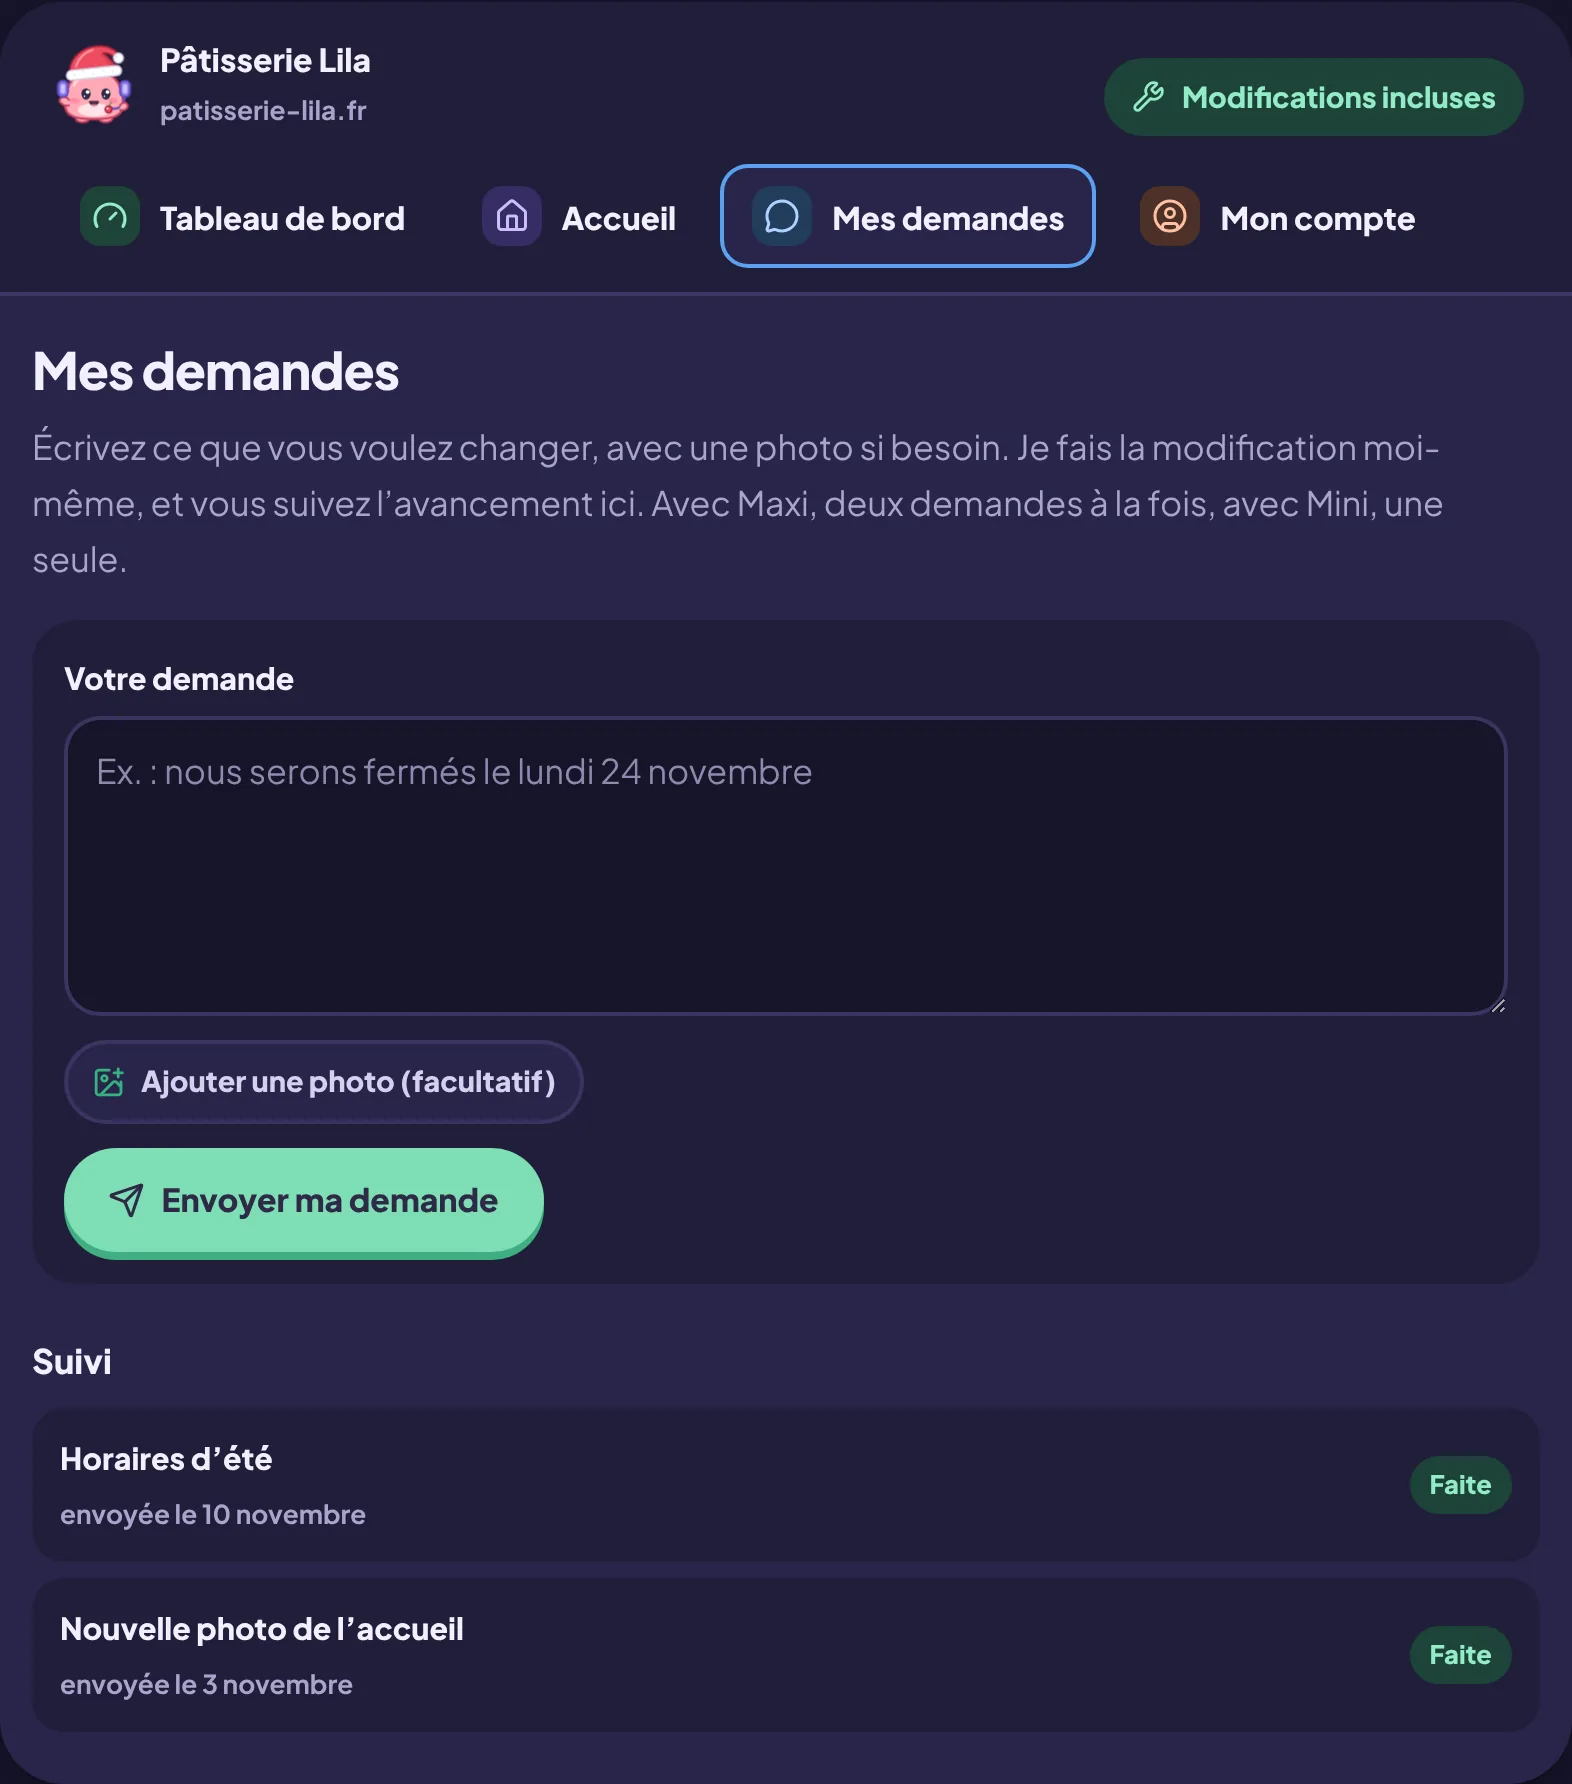
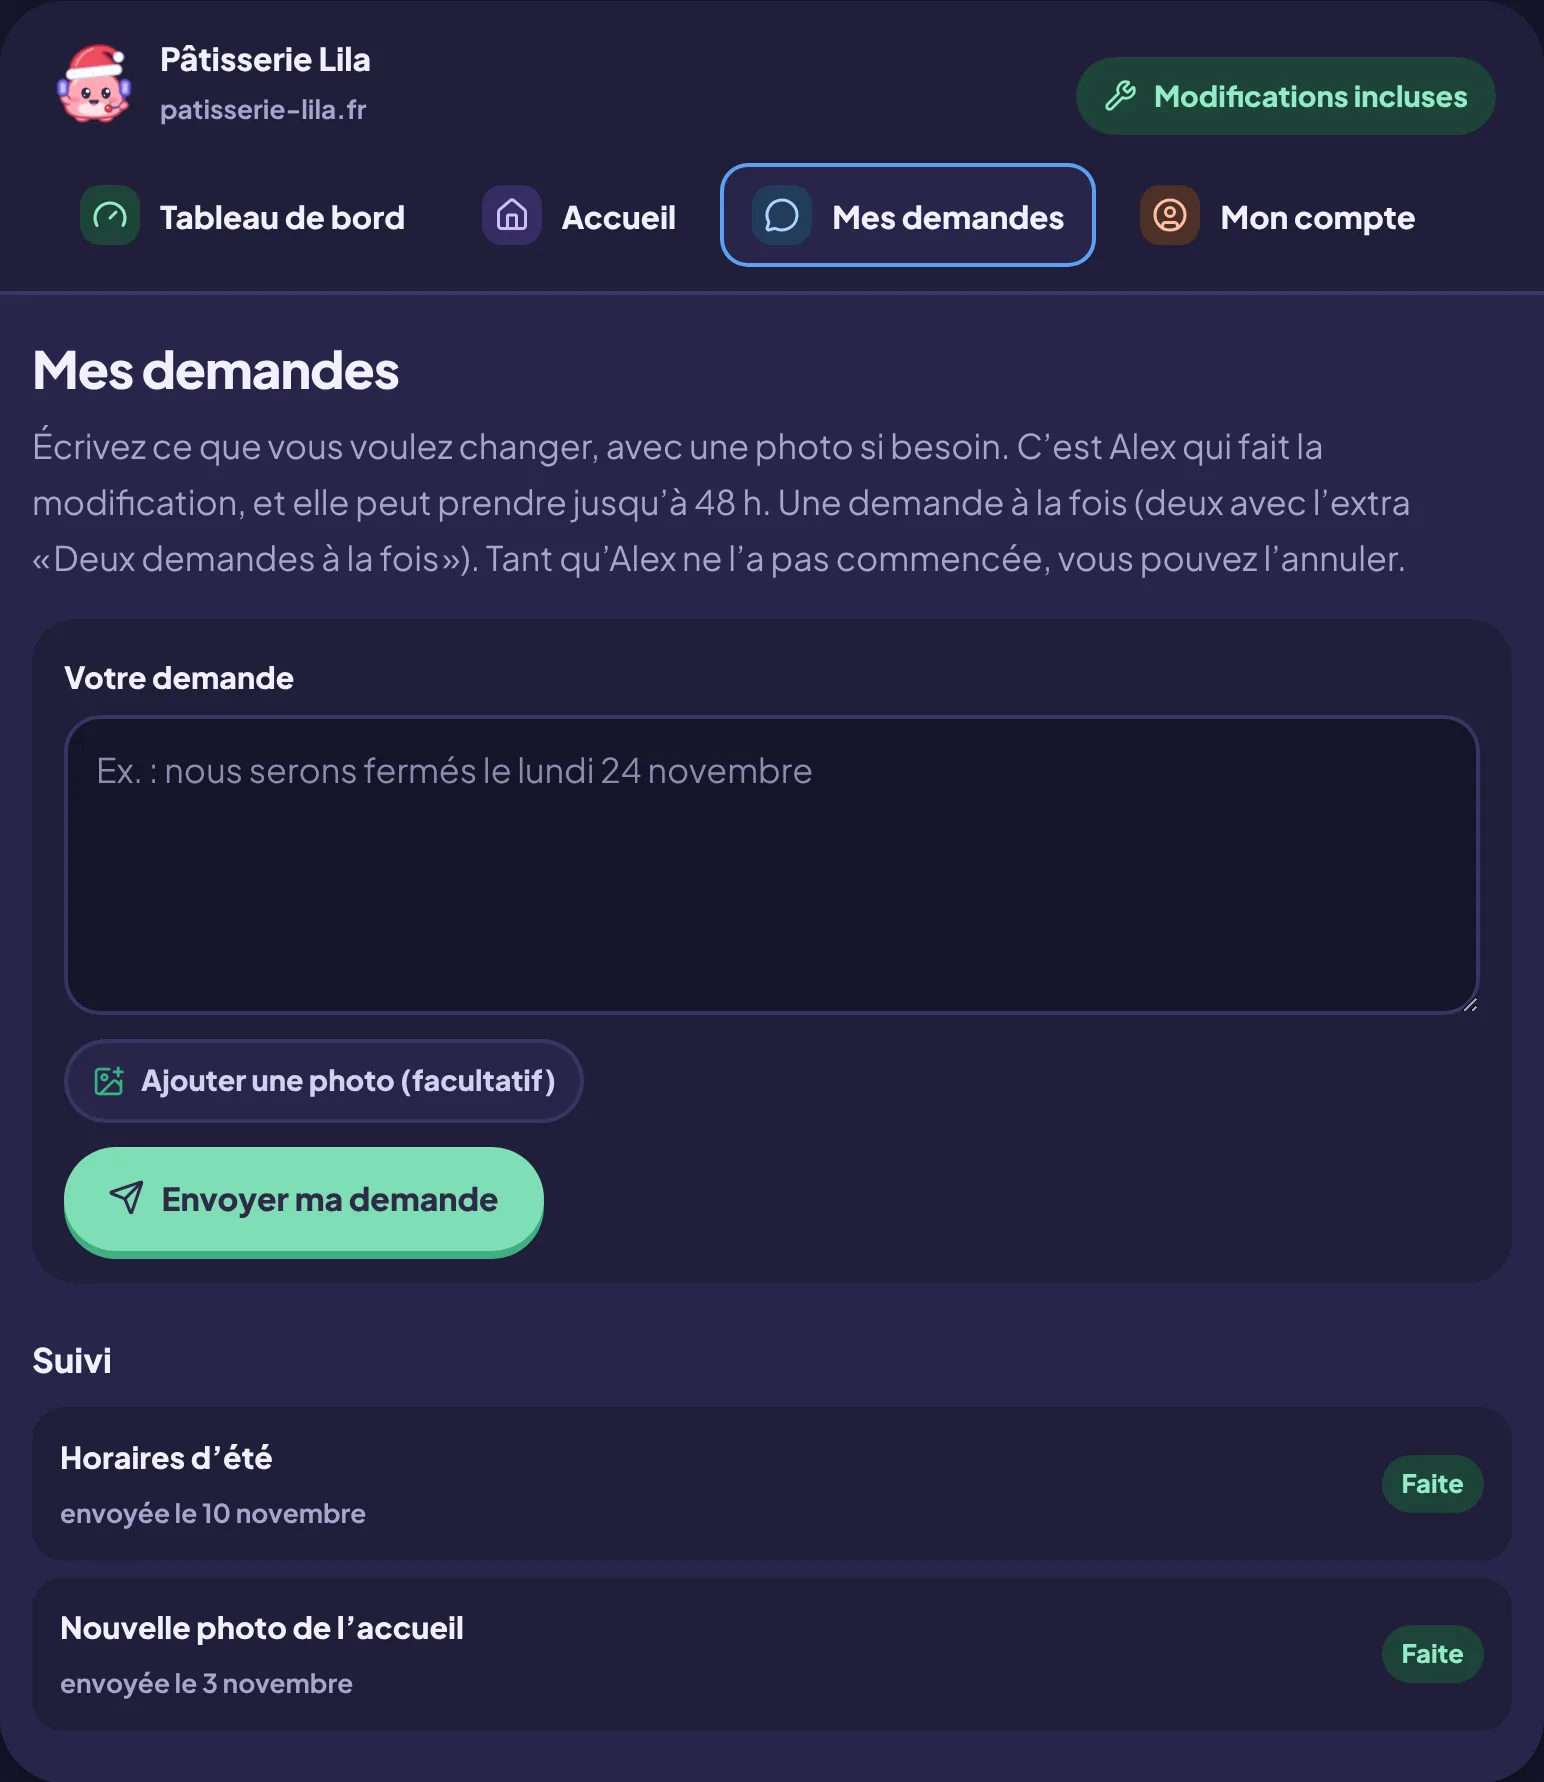
WIP : textes publics (agent)
Claude-Session: https://claude.ai/code/session_01DVQfATLnwiPGhT85kMXciq

diff --git a/src/lib/components.js b/src/lib/components.js
@@ -186,7 +186,7 @@ const packsSeo = PACK_SEO && PACK_SEO.packs ? PACK_SEO.packs.filter((n) => n > 1
 const PLUS_DE_PAGES = `Besoin de plus de pages, ou d’être trouvé sur plus de recherches ? Une page en plus coûte ${euro(creation.pagePlus)}, et une page visibilité Google ${euro(prixPageSeo)}, seule ou en packs de ${packsSeo}. Ce sont des extras, qui se prennent plus tard depuis votre espace client.`;
 // Les articles de la boutique : le client les ajoute lui-même dans l'onglet « Ma boutique » de son espace client, dans des emplacements.
 const BOUTIQUE_ARTICLES = `Vous ajoutez vos articles vous-même depuis votre espace client : photo, description, prix. ${creation.boutiqueProduits} emplacements sont compris, puis ${euro(creation.boutiqueSlot)} l’emplacement, à vous pour toujours.`;
-const BOUTIQUE_INCLUS = [`${creation.boutiqueProduits} emplacements d’articles compris`, 'Panier et paiement en ligne', 'Achat sans créer de compte', 'Gestion des commandes', 'E-mails automatiques'];
+const BOUTIQUE_INCLUS = [`${creation.boutiqueProduits} emplacements d’articles compris, puis ${euro(creation.boutiqueSlot)} l’emplacement`, 'Panier et paiement en ligne', 'Achat sans créer de compte', 'Gestion des commandes', 'E-mails automatiques'];
 // Ce que la boutique ajoute dans l'espace client (extension WordPress : includes/boutique.php et vacances.php)
 const BOUTIQUE_ESPACE = ['Vos articles : photo, description, prix', 'Vos prix et vos promotions', 'Vos moyens de paiement', 'Le suivi de vos commandes'];
 // Les moyens de paiement de la boutique : choisis par le client, ses clés restent sur son propre site
@@ -284,7 +284,7 @@ function bandeGrid({ complet = false, prix = true } = {}) {
 // La boutique en ligne, la seule option à la commande, expliquée simplement
 function optionsCompact() {
   return `<div class="opt-cartes">
-  <article class="opt-carte reveal"><span class="opt-carte-art">${petit(MONSTRE_OPTION.boutique)}</span><div><h3><span>${nomI('Boutique en ligne', 'boutique', BOUTIQUE.info)}</span><b>+ ${euro(creation.boutique)}</b></h3><p>Vos clients achètent sur votre site, même quand vous êtes fermé, sans créer de compte. Vous gérez tout vous-même depuis l’onglet « Ma boutique » de votre espace client : vos articles, vos prix et vos promotions, vos moyens de paiement et le suivi de vos commandes. ${BOUTIQUE_ARTICLES} Côté paiement, le choix est large : Stripe, PayPal, virement, chèque, paiement à la livraison, ou un autre moyen branché par Alex. La boutique est un outil : elle ne promet aucune vente.</p><ul class="plan-list">${BOUTIQUE_INCLUS.map((x) => `<li>${icon('check')}<span>${esc(x)}</span></li>`).join('')}</ul></div></article>
+  <article class="opt-carte reveal"><span class="opt-carte-art">${petit(MONSTRE_OPTION.boutique)}</span><div><h3><span>${nomI('Boutique en ligne', 'boutique', BOUTIQUE.info)}</span><b>+ ${euro(creation.boutique)}</b></h3><p>Vos clients achètent sur votre site, même quand vous êtes fermé, sans créer de compte. Tout se gère depuis l’onglet « Ma boutique » de votre espace client : vos articles, vos prix et vos promotions, vos moyens de paiement et le suivi de vos commandes.</p><p>${BOUTIQUE_ARTICLES}</p><p>Côté paiement, le choix est large : Stripe, PayPal, virement, chèque, paiement à la livraison, ou un autre moyen branché par Alex. La boutique est un outil : elle ne promet aucune vente.</p><ul class="plan-list">${BOUTIQUE_INCLUS.map((x) => `<li>${icon('check')}<span>${esc(x)}</span></li>`).join('')}</ul></div></article>
 </div>
 <p class="opt-note">La boutique en ligne est la seule option à la commande, payée une fois. Tout le reste se prend plus tard, comme extra.</p>`;
 }

diff --git a/src/pages/main.js b/src/pages/main.js
@@ -1564,14 +1564,15 @@ function briefDetail(c) {
 }
 
 // Dimensions des captures de l'espace client (scripts/captures-espace.js écrit src/assets/img/doc/messages.webp)
-const IMG_MSGS = (() => {
-  try { const t = require('fs').readFileSync(require('path').join(__dirname, '../assets/img/doc/messages.json'), 'utf8'); return JSON.parse(t); } catch (e) { return [1600, 1700]; }
-})();
+const dimsDoc = (nom, defaut) => {
+  try { const t = require('fs').readFileSync(require('path').join(__dirname, `../assets/img/doc/${nom}.json`), 'utf8'); return JSON.parse(t); } catch (e) { return defaut; }
+};
+const IMG_MSGS = dimsDoc('messages', [1600, 1700]);
 // ====================================================================== DOCUMENTATION
 function docPage() {
   const crumbs = crumb('documentation');
   const IMG = {
-    espace: [1572, 2116], demandes: [1572, 1784], chico: [1482, 1082], titan: [1482, 2697], messages: IMG_MSGS,
+    espace: dimsDoc('espace', [1572, 2116]), demandes: dimsDoc('demandes', [1572, 1784]), chico: [1482, 1082], titan: [1482, 2697], messages: IMG_MSGS,
     boutique: [1482, 1823], vacances: [654, 650], 'site-dodedo': [1500, 938], 'site-flore': [1500, 938],
   };
   const fig = (k, alt, cap, cls = '') => `<figure class="doc-fig ${cls} reveal"><img src="/assets/img/doc/${k}.webp" width="${IMG[k][0]}" height="${IMG[k][1]}" alt="${esc(alt)}" loading="lazy" decoding="async"><figcaption>${cap}</figcaption></figure>`;

diff --git a/src/assets/css/style.css b/src/assets/css/style.css
@@ -2364,3 +2364,8 @@ a.client-url { text-decoration: none; }
 .app-opt-once .btn { white-space: nowrap; }
 .msg.is-extra { box-shadow: 0 0 0 1px var(--lilac-d, #6E5CC9) inset; }
 .opt-cartes { grid-template-columns: minmax(0, 1fr); max-width: 860px; margin-left: auto; margin-right: auto; }
+.offre-options b { white-space: normal; }
+@media (max-width: 560px) {
+  .formules.is-solo .formule-art { top: 10px; right: 10px; width: 78px; }
+  .formules.is-solo .formule-nom, .formules.is-solo .formule-prix, .formules.is-solo .formule-sans { padding-right: 84px; }
+}
